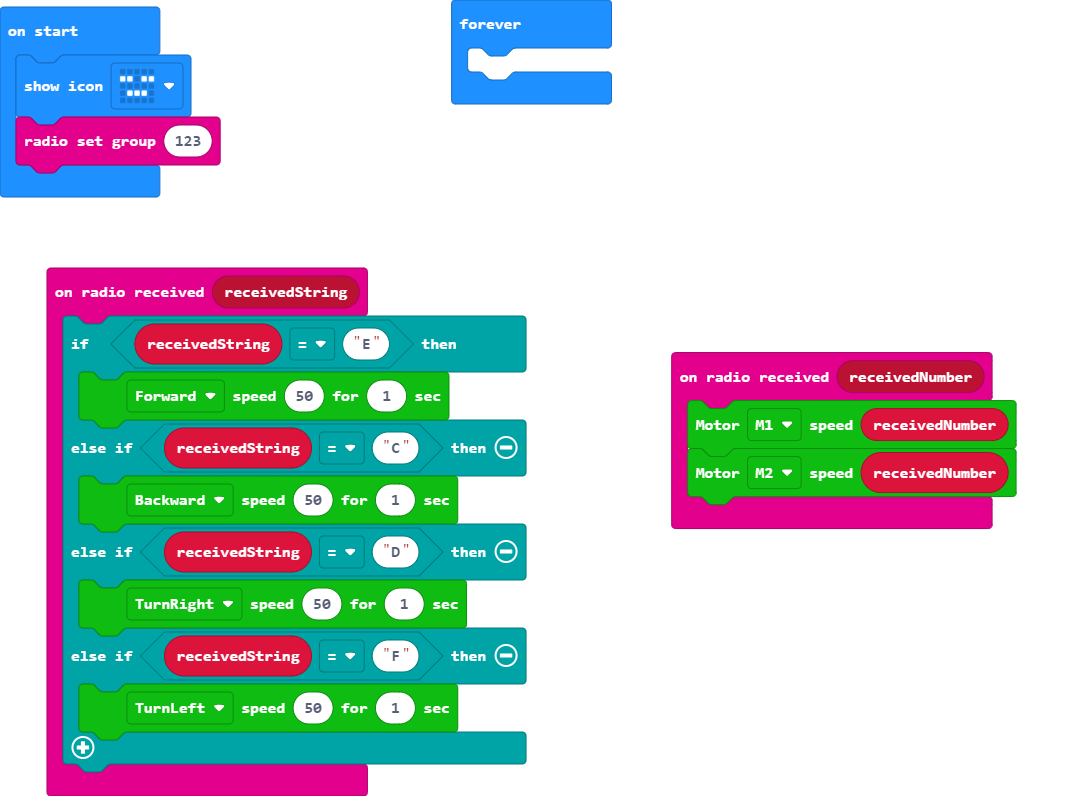
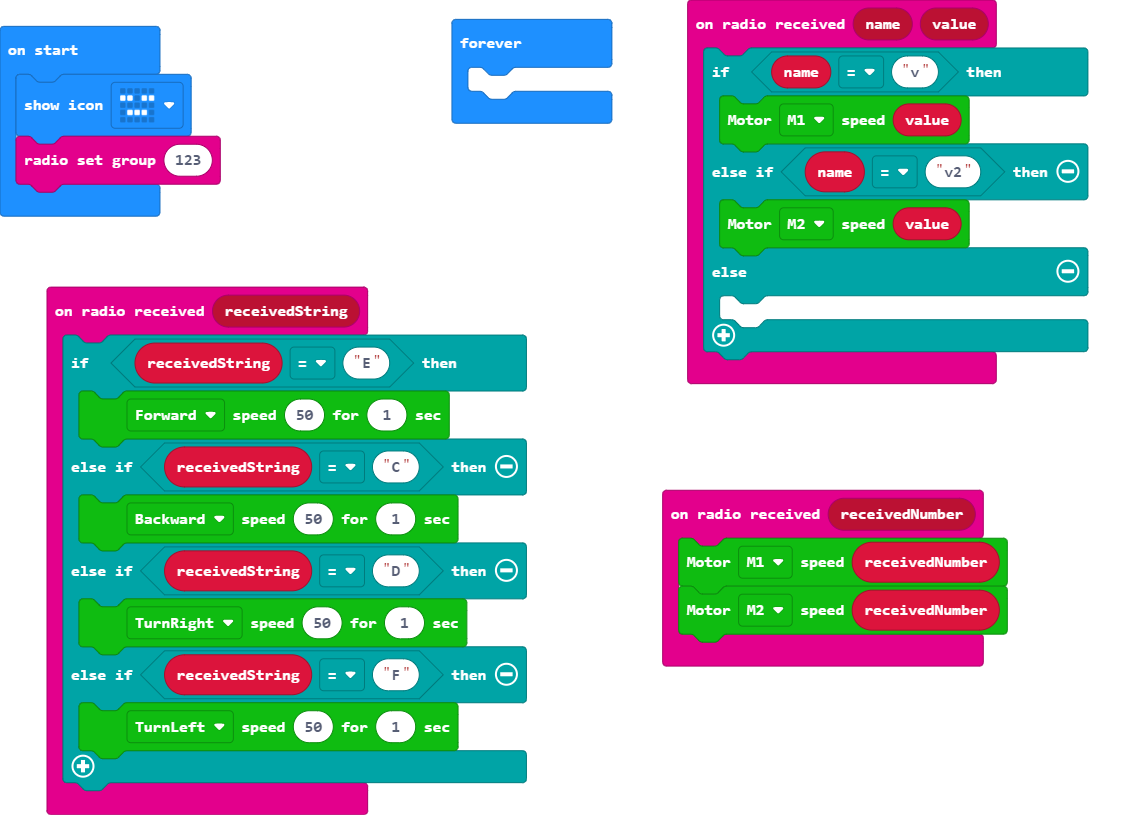
Update main.blocks, main.ts

diff --git a/main.ts b/main.ts
@@ -13,6 +13,15 @@ radio.onReceivedString(function (receivedString) {
         AlphaBot2.RunDelay(Dir.turnLeft, 50, 1)
     }
 })
+radio.onReceivedValue(function (name, value) {
+    if (name == "v") {
+        AlphaBot2.MotorRun(Motors.M1, value)
+    } else if (name == "v2") {
+        AlphaBot2.MotorRun(Motors.M2, value)
+    } else {
+    	
+    }
+})
 basic.showIcon(IconNames.Asleep)
 radio.setGroup(123)
 basic.forever(function () {
